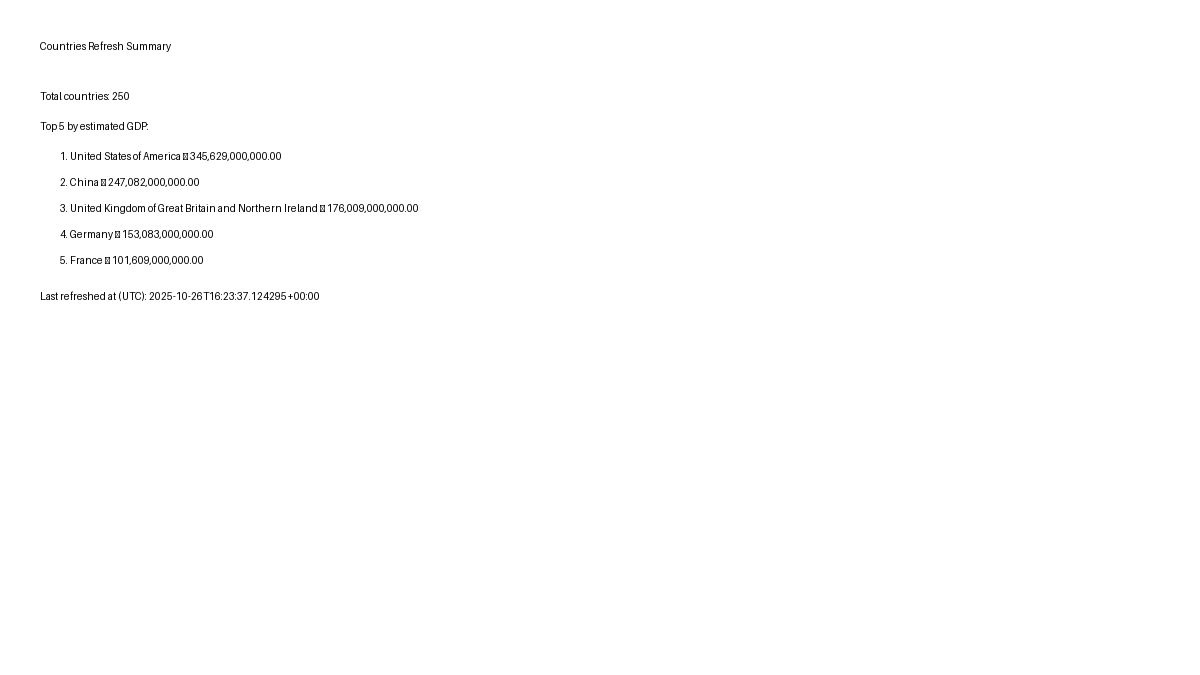
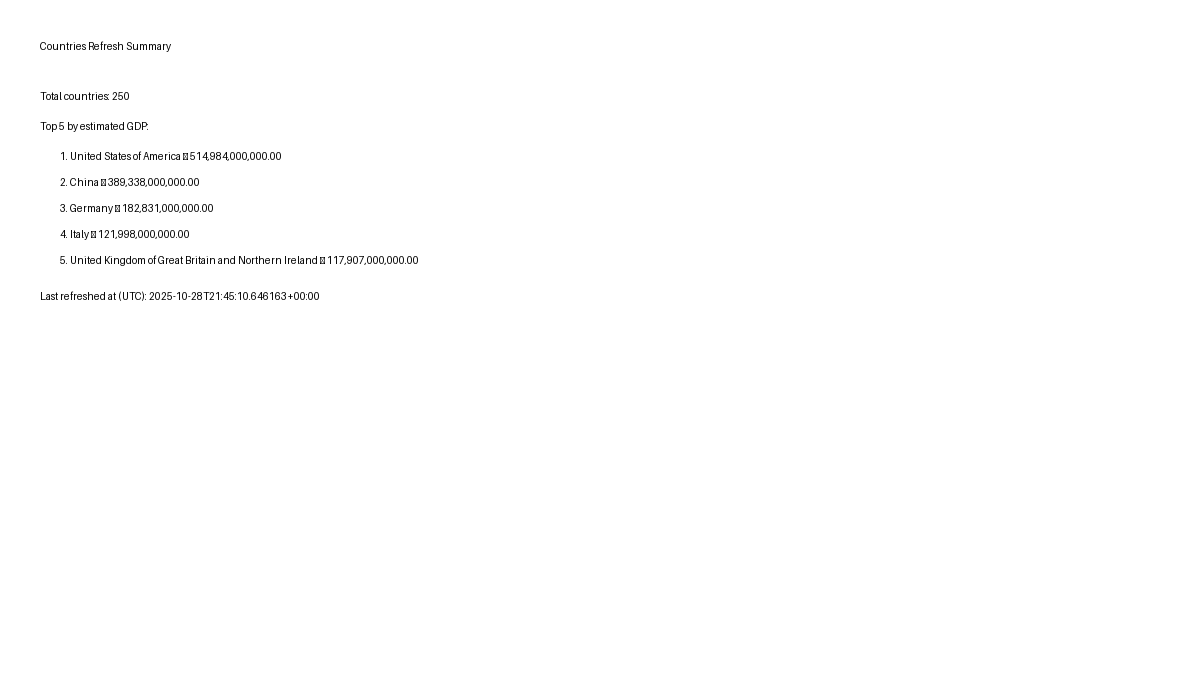
fix: corrected env variable and sorting logic

diff --git a/crud.py b/crud.py
@@ -16,9 +16,9 @@ async def list_countries(session: AsyncSession, region=None, currency=None, sort
         q = q.where(Country.currency_code == currency)
     if sort:
         if sort == "gdp_desc":
-            q = q.order_by(Country.estimated_gdp.desc().nullslast())
+            q = q.order_by(Country.estimated_gdp.desc())
         elif sort == "gdp_asc":
-            q = q.order_by(Country.estimated_gdp.asc().nullslast())
+            q = q.order_by(Country.estimated_gdp.asc())
         elif sort == "name_asc":
             q = q.order_by(Country.name.asc())
     res = await session.execute(q)
